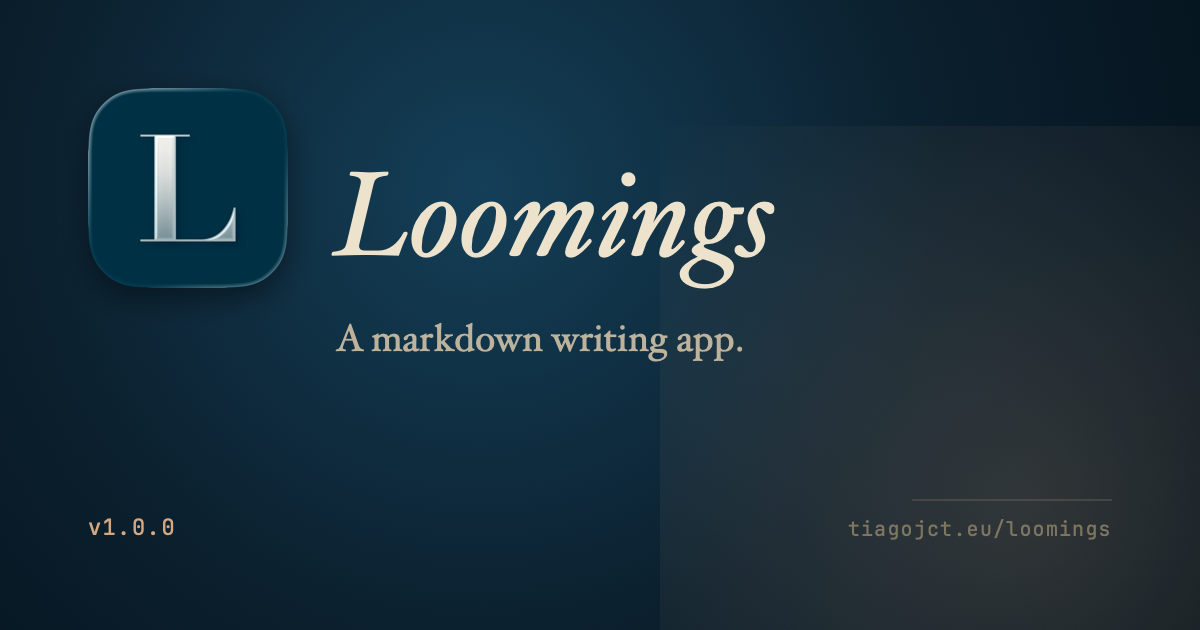
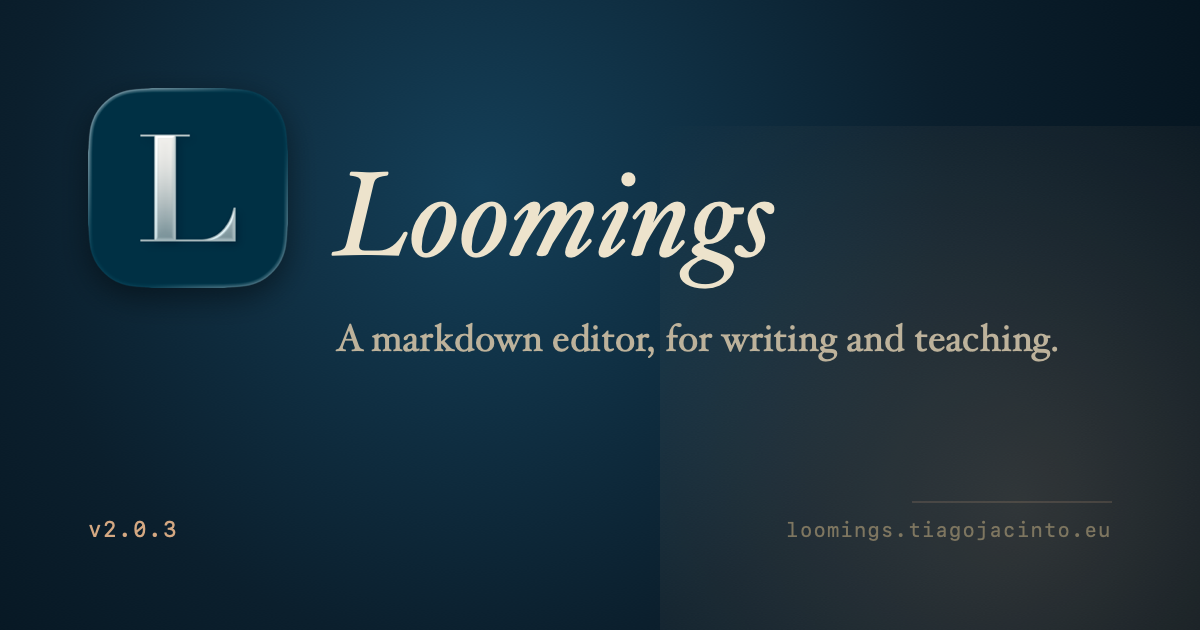
v2.0.4: landing page redesign
Content: tighter section copy named after the app's own verbs (Write,
Teach, Keep), a trimmed what-is-not list, one unified tagline across
title/meta/header instead of three slightly different ones.

Fixed a real bug along the way: the page's @import of Source Serif 4 /
JetBrains Mono from Google Fonts was always blocked by the site's own
CSP and had silently never loaded; removed the dead import.

New screenshot: a live capture of split view (dark Pequod) replacing
one that still showed the retired desktop app. New social-share card
with the current version and domain, replacing one that read v1.0.0
and tiagojct.eu. Dropped leftover TODO comments and the CSS for a
downloads grid and a shortcuts-pill list no longer in the markup.

Changed region(s): [[0.4625, 0.5127, 0.8942, 0.573], [0.6475, 0.7841, 0.925, 0.8746], [0.0617, 0.8143, 0.1542, 0.8746]]

diff --git a/docs/index.html b/docs/index.html
@@ -3,10 +3,10 @@
 <head>
   <meta charset="UTF-8">
   <meta name="viewport" content="width=device-width, initial-scale=1.0">
-  <title>Loomings — A markdown editor in your browser</title>
-  <meta name="description" content="A markdown editor in your browser. Write, share with students, teach markdown side by side. No account, nothing sent to a server.">
+  <title>Loomings — a markdown editor for writing and teaching</title>
+  <meta name="description" content="A markdown editor, for writing and teaching. Runs in the browser. No account, nothing sent to a server.">
   <meta property="og:title" content="Loomings">
-  <meta property="og:description" content="A markdown editor in your browser. Write, share with students, teach markdown side by side.">
+  <meta property="og:description" content="A markdown editor, for writing and teaching. Runs in the browser. No account, nothing sent to a server.">
   <meta property="og:url" content="https://loomings.tiagojacinto.eu/">
   <meta property="og:image" content="https://loomings.tiagojacinto.eu/assets/og.png">
   <meta property="og:image:width" content="1200">
@@ -27,8 +27,8 @@
     <header>
       <img src="assets/icon.png" alt="" class="mark" width="84" height="84">
       <h1>Loomings</h1>
-      <p class="sub">A markdown editor in your browser.</p>
-      <p class="version">v2.0.3</p>
+      <p class="sub">A markdown editor, for writing and teaching.</p>
+      <p class="version">v2.0.4</p>
     </header>
 
     <article>
@@ -37,12 +37,12 @@
       </p>
 
       <p>
-        Loomings is a markdown editor that runs in your browser. It opens to a blank page. You write. It stays out of the way. Nothing you type leaves your machine. The first chapter of Moby-Dick is called <em>Loomings</em>, and that is where this came from.
+        Loomings is a markdown editor that runs in the browser. It opens to a blank page, and stays out of the way while you write on it, hand it to a student, or teach from it with the source next to the result. Nothing you type leaves your machine unless you turn it into a link yourself. The first chapter of <em>Moby-Dick</em> is called <em>Loomings</em>, and that is where the name came from.
       </p>
 
       <figure class="shot">
-        <img src="assets/screenshot.png" alt="Loomings editor showing chapter 1 of Moby-Dick" loading="lazy">
-        <figcaption>The editor showing the bundled example — chapter 1 of <em>Moby-Dick</em>.</figcaption>
+        <img src="assets/screenshot.png" alt="Loomings in split view, chapter 1 of Moby-Dick in the source pane on the left and the rendered result on the right." loading="lazy" width="2800" height="1800">
+        <figcaption>Split view — the bundled example, chapter 1 of <em>Moby-Dick</em>.</figcaption>
       </figure>
 
       <p class="actions">
@@ -50,47 +50,30 @@
         <a class="link" href="https://github.com/tiagojct/loomings">Source on GitHub</a>
       </p>
 
-      <h2>What is there</h2>
+      <h2>Write</h2>
       <p>
-        Real markdown in the editor — bold reads bold, headings read heading, code reads code. List lines that continue themselves when you press <em>return</em>, and stop when you press it twice. An outline you can jump to with <em>⌘P</em>. A focus mode that dims everything outside the sentence under the cursor. Word counts. A word goal if you want one. Find and replace. A split view that shows the source beside the result and keeps the two in step.
+        Real markdown in the editor — bold reads bold, headings read heading, code reads code. Lists continue themselves on <em>return</em>, and stop when you press it twice. An outline you can jump through with <em>⌘P</em>, a focus mode that dims everything outside the sentence under the cursor, a word goal if you want one. <em>Split</em> shows the source beside the result and keeps the two in step as you scroll either one. Every shortcut is listed in the app itself, one keystroke away (<em>⌘?</em>).
       </p>
 
-      <h2>For teaching</h2>
+      <h2>Teach</h2>
       <p>
-        Six short lessons live under the <em>Learn</em> menu, written to demonstrate themselves: the syntax on the left, what it becomes on the right, an exercise at the end. A cheatsheet sits one keystroke away. And any document can be turned into a link: <em>Export → Copy share link</em> folds the whole text into the address, so a student opens it in their own editor with nothing uploaded anywhere. Hand in with <em>Print / PDF</em>, or send the link back.
+        Six short lessons live under the <em>Learn</em> menu, written to demonstrate themselves: the syntax on the left, what it becomes on the right, an exercise at the end. Any document can be turned into a link — <em>Export → Copy share link</em> folds the whole text into the address, so a student opens it in their own editor with nothing uploaded anywhere. Hand in with <em>Print / PDF</em>, or send the link back.
       </p>
 
       <h2>Four colours, two moods</h2>
       <p>
-        Pequod, the parchment and lantern light of this page, is the default. Glauca is frost and one sky blue. Try-Works is cold sea and try-pot fire. Ambergris is near-monochrome grey with a teal that only marks what you can click. Each has a dark and a light side, and will follow the system if you let it.
+        Pequod — the parchment and lantern light of this page — is the default. Glauca is frost and one sky blue. Try-Works is cold sea and try-pot fire. Ambergris is near-monochrome grey with a teal that only marks what you can click. Each has a dark side and a light side, and follows the system if you let it.
       </p>
 
-      <h2>Where the files go</h2>
+      <h2>Keep</h2>
       <p>
-        In Chrome and Edge, to real files on disk, and recent ones are remembered. Elsewhere — Safari, Firefox, an iPad — <em>Save</em> keeps the draft in the browser itself, listed under <em>Documents</em>. Either way the buffer is scratched as you type and offered back if the tab dies. Install it from the browser's menu and it becomes an app that works offline and opens <code>.md</code> files.
+        In Chrome and Edge, real files on disk, with recent ones remembered. Elsewhere — Safari, Firefox, an iPad — <em>Save</em> keeps the draft in the browser itself, listed under <em>Documents</em>. Either way the buffer is scratched as you type and offered back if the tab closes early. Install it from the browser's own menu and it becomes an app that works offline and opens <code>.md</code> files.
       </p>
-      <!-- TODO: focus.png — capture in app via Cmd+Shift+4 then drop into docs/assets/screenshot-focus.png -->
-      <!-- TODO: preview.png — capture preview pane via Cmd+Shift+4 then drop into docs/assets/screenshot-preview.png -->
-
-      <h2>How it works</h2>
-      <div class="shortcuts">
-        <span class="key"><kbd>⌘P</kbd> Outline</span>
-        <span class="key"><kbd>⌘F</kbd> Find</span>
-        <span class="key"><kbd>⌘⇧D</kbd> Focus</span>
-        <span class="key"><kbd>⌘\</kbd> Split</span>
-        <span class="key"><kbd>⌘⇧P</kbd> Preview</span>
-        <span class="key"><kbd>⌘?</kbd> Cheatsheet</span>
-        <span class="key"><kbd>⌘⇧W</kbd> Width</span>
-        <span class="key"><kbd>⌘⇧T</kbd> Theme</span>
-        <span class="key"><kbd>⌘⇧G</kbd> Goal</span>
-      </div>
 
       <h2>What is not</h2>
       <ul class="not-list">
-        <li>No cloud sync.</li>
-        <li>No account.</li>
+        <li>No account, no cloud sync.</li>
         <li>No tracking.</li>
-        <li>No newsletter.</li>
         <li>No themes marketplace.</li>
         <li>No AI assistant pestering the margin.</li>
         <li>No server that sees your text.</li>
@@ -101,7 +84,7 @@
 
       <h2>Built with</h2>
       <p>
-        CodeMirror 6 and markdown-it, served as static files. The source is MIT-licensed. The icon is set in italic Didot. The body in this page is Source Serif. The colours come from a chapter that opens with a man bored of land.
+        CodeMirror 6 and markdown-it, served as static files. The source is MIT-licensed. The icon is set in italic Didot. The colours come from a chapter that opens with a man bored of land.
       </p>
 
     </article>
@@ -111,7 +94,7 @@
       <p class="foot-links">
         <a href="#top">Loomings</a>
         <span class="dot">·</span>
-        <span class="version">v2.0.3</span>
+        <span class="version">v2.0.4</span>
         <span class="dot">·</span>
         by <a href="https://tiagojacinto.eu">Tiago Jacinto</a>
         <span class="dot">·</span>

diff --git a/docs/style.css b/docs/style.css
@@ -27,7 +27,11 @@
   }
 }
 
-@import url('https://fonts.googleapis.com/css2?family=Source+Serif+4:ital,opsz,wght@0,8..60,400..800;1,8..60,400..800&family=JetBrains+Mono:wght@400;500&display=swap');
+/* No @import for the display faces: the CSP here is self-only (see
+   nginx.conf), so a Google Fonts request would just be dropped by the
+   browser. These stacks fall through to Hoefler Text / SF Mono, which
+   ship on the platforms that matter and read close enough to the app's
+   own faces that nothing here needs a network request. */
 
 * { box-sizing: border-box; margin: 0; padding: 0; }
 
@@ -244,119 +248,6 @@ footer a { color: var(--ink-soft); }
   color: var(--paper);
 }
 
-/* === Downloads grid (B1) === */
-.downloads-block { margin: 2.4em 0 3em; }
-.brew-line {
-  margin: 0 0 18px !important;
-  font-size: 15px;
-  color: var(--ink-soft);
-  font-style: italic;
-}
-.brew-line code {
-  font-style: normal;
-  background: var(--paper-soft);
-  padding: 2px 8px;
-  border-radius: 2px;
-  font-size: 13px;
-  color: var(--ink);
-  border: 1px solid var(--rule);
-}
-.downloads {
-  display: grid;
-  grid-template-columns: 1fr 1fr;
-  gap: 10px;
-}
-.dl {
-  display: flex;
-  align-items: baseline;
-  justify-content: space-between;
-  gap: 12px;
-  padding: 14px 18px;
-  border: 1px solid var(--rule);
-  background: var(--paper-soft);
-  color: var(--ink);
-  text-decoration: none;
-  border-radius: 2px;
-  transition: border-color 0.15s, transform 0.1s, background 0.15s;
-}
-.dl:hover {
-  border-color: var(--accent);
-  background: var(--paper);
-  color: var(--ink);
-  transform: translateY(-1px);
-}
-.dl-platform {
-  font-family: var(--font-serif);
-  font-size: 16px;
-  font-weight: 500;
-}
-.dl-ext {
-  font-family: var(--font-mono);
-  font-size: 12px;
-  color: var(--ink-faint);
-  letter-spacing: 0.04em;
-}
-.dl-extras {
-  margin: 1.2em 0 0 !important;
-  font-size: 15px;
-  color: var(--ink-soft);
-}
-.dl-extras a {
-  color: var(--ink-soft);
-  text-decoration: none;
-  border-bottom: 1px solid var(--rule);
-}
-.dl-extras a:hover { color: var(--accent-deep); border-bottom-color: var(--accent); }
-.dl-note {
-  margin: 0.6em 0 0 !important;
-  font-size: 13px;
-  color: var(--ink-faint);
-  font-style: italic;
-}
-.dl-note a {
-  color: var(--ink-soft);
-  text-decoration: none;
-  border-bottom: 1px solid var(--rule);
-}
-.dl-note a:hover { color: var(--accent-deep); border-bottom-color: var(--accent); }
-.dl-note code {
-  font-style: normal;
-  font-size: 12px;
-  padding: 0 4px;
-  background: var(--paper-soft);
-  border-radius: 2px;
-}
-
-/* === Shortcut pills (B3) === */
-.shortcuts {
-  display: flex;
-  flex-wrap: wrap;
-  gap: 10px;
-  margin: 1.4em 0 2em;
-}
-.key {
-  display: inline-flex;
-  align-items: center;
-  gap: 8px;
-  padding: 6px 12px;
-  border: 1px solid var(--rule);
-  border-radius: 2px;
-  font-size: 14px;
-  color: var(--ink);
-  background: transparent;
-  font-family: var(--font-serif);
-}
-.key kbd {
-  font-family: var(--font-mono);
-  font-size: 12px;
-  font-weight: 500;
-  color: var(--accent-deep);
-  background: var(--paper-soft);
-  padding: 1px 6px;
-  border-radius: 2px;
-  border: none;
-}
-
 /* === Not-list (B4) === */
 .not-list {
   list-style: none;
@@ -415,6 +306,5 @@ footer .tag {
   .dropcap { font-size: 60px; }
   body { font-size: 18px; padding: 0 18px; }
   h2 { font-size: 22px; }
-  .downloads { grid-template-columns: 1fr; }
   .not-list li { font-size: 18px; }
 }

diff --git a/scripts/render-og.swift b/scripts/render-og.swift
@@ -96,7 +96,7 @@ let tagAttrs: [NSAttributedString.Key: Any] = [
     .font: tagFont,
     .foregroundColor: color(0xBD, 0xB2, 0x9B),
 ]
-let tagStr = NSAttributedString(string: "A markdown writing app.", attributes: tagAttrs)
+let tagStr = NSAttributedString(string: "A markdown editor, for writing and teaching.", attributes: tagAttrs)
 let tagSize = tagStr.size()
 tagStr.draw(at: NSPoint(x: titleX, y: tagY - tagSize.height))
 
@@ -111,7 +111,7 @@ let verAttrs: [NSAttributedString.Key: Any] = [
     .foregroundColor: color(0xD4, 0xA8, 0x82),
     .kern: 1.5,
 ]
-let verStr = NSAttributedString(string: "v1.0.0", attributes: verAttrs)
+let verStr = NSAttributedString(string: "v2.0.3", attributes: verAttrs)
 verStr.draw(at: NSPoint(x: margin, y: margin))
 
 // Tag URL — bottom-right.
@@ -125,7 +125,7 @@ let urlAttrs: [NSAttributedString.Key: Any] = [
     .foregroundColor: color(0x7E, 0x76, 0x60),
     .kern: 1.2,
 ]
-let urlStr = NSAttributedString(string: "tiagojct.eu/loomings", attributes: urlAttrs)
+let urlStr = NSAttributedString(string: "loomings.tiagojacinto.eu", attributes: urlAttrs)
 let urlSize = urlStr.size()
 urlStr.draw(at: NSPoint(x: width - margin - urlSize.width, y: margin))
 

diff --git a/CHANGELOG.md b/CHANGELOG.md
@@ -4,6 +4,29 @@ All notable changes to Loomings are documented here. Format based on
 [Keep a Changelog](https://keepachangelog.com/en/1.1.0/) and the project
 follows [Semantic Versioning](https://semver.org/spec/v2.0.0.html).
 
+## [2.0.4] — 2026-09-21
+
+Landing page only — no app changes.
+
+### Changed
+
+- Rewrote the landing page copy: tighter sections named after the app's
+  own verbs (Write, Teach, Keep), a trimmed "what is not" list, and a
+  unified tagline across the title, meta tags and header.
+- Replaced the screenshot and social-share card. Both were stale — the
+  screenshot still showed the retired desktop app, and the share card
+  still read v1.0.0 and the old domain. The new screenshot is a live
+  capture of split view.
+
+### Fixed
+
+- The landing page's `@import` of Source Serif 4 / JetBrains Mono from
+  Google Fonts was silently blocked by the site's own CSP (`style-src
+  'self'`) and had never actually loaded; removed it and documented the
+  system-font fallback it was already rendering with.
+- Removed two leftover `TODO` comments and the CSS for a downloads grid
+  and a shortcuts-pill list that no longer exist in the markup.
+
 ## [2.0.3] — 2026-09-21
 
 ### Fixed
@@ -447,6 +470,7 @@ earlier Electron prototype.
 [1.0.3]: https://github.com/tiagojct/loomings/releases/tag/v1.0.3
 [1.0.2]: https://github.com/tiagojct/loomings/releases/tag/v1.0.2
 [1.0.1]: https://github.com/tiagojct/loomings/releases/tag/v1.0.1
+[2.0.4]: https://github.com/tiagojct/loomings/releases/tag/v2.0.4
 [2.0.3]: https://github.com/tiagojct/loomings/releases/tag/v2.0.3
 [2.0.2]: https://github.com/tiagojct/loomings/releases/tag/v2.0.2
 [2.0.1]: https://github.com/tiagojct/loomings/releases/tag/v2.0.1
